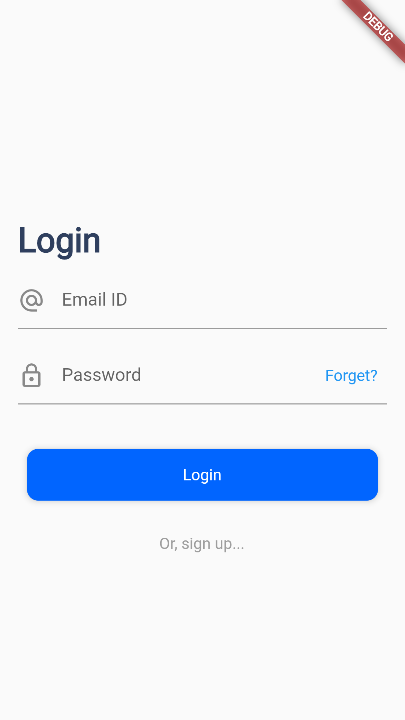
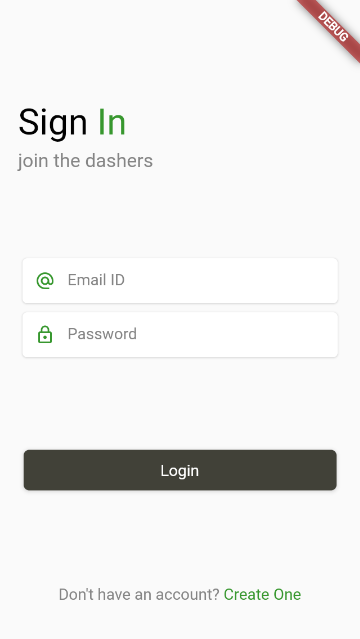
login ui update

diff --git a/dash_chat_app/lib/features/login/login_screen.dart b/dash_chat_app/lib/features/login/login_screen.dart
@@ -6,7 +6,7 @@ const kSecondaryColor = Color(0xFF37972e);
 const kGreyColor = Color(0xFF858585);
 const kBlackColor = Colors.black;
 const kWhiteColor = Colors.white;
-const contentSpacing = 16.0;
+const kContentSpacing = 16.0;
 
 
 class LoginScreen extends StatelessWidget {
@@ -24,58 +24,67 @@ class LoginScreen extends StatelessWidget {
   Widget build(BuildContext context) {
     return Scaffold(
       body: SafeArea(
-        child: SingleChildScrollView(
-          child: Padding(
-            padding: const EdgeInsets.all(bodyPadding),
-            child: Column(
-              crossAxisAlignment: CrossAxisAlignment.stretch,
-              children: [
-                /// A Picture
-                const SizedBox(height: 100, width: double.infinity,),
-                /// The Heading
-                const DoubleColorText(
-                  primaryText: 'Sign ',
-                  secondaryText: 'In',
-                  primaryColor: Colors.black,
-                  fontSize: 32,
-                ),
-                const SizedBox(height: 5.0,),
-                const Text('join the dashers', style: TextStyle(
-                  fontSize: 17.0,
-                  color: kGreyColor
-                ),),
-                const SizedBox(height: 30.0,),
-                /// The Form
-                const PrimaryInputTextField(
-                  labelText: 'Email ID',
-                  prefixIcon: Icons.alternate_email,
-                  keyboardType: TextInputType.emailAddress,
-                ),
-                const PrimaryInputTextField(
-                    labelText: 'Password',
-                    prefixIcon: Icons.lock_outline,
-                    obscureText: true,
-                    bottomSpace: contentSpacing*2,
-                ),
-                const SizedBox(height: 30.0,),
-                SizedBox(
-                  width: double.infinity,
-                  child: PrimaryActionButton(
-                    onPressed: (){},
-                    buttonText: 'Login',
+        child: LayoutBuilder(
+          builder: (context, constraint) {
+            return SingleChildScrollView(
+              child: ConstrainedBox(
+                constraints: BoxConstraints(minHeight: constraint.maxHeight),
+                child: IntrinsicHeight(
+                  child: Padding(
+                    padding: const EdgeInsets.all(kContentSpacing),
+                    child: Column(
+                      crossAxisAlignment: CrossAxisAlignment.stretch,
+                      children: <Widget>[
+                        /// A Picture
+                        const Spacer(),
+                        /// The Heading
+                        const DoubleColorText(
+                          primaryText: 'Sign ',
+                          secondaryText: 'In',
+                          primaryColor: Colors.black,
+                          fontSize: 32,
+                        ),
+                        const SizedBox(height: 5.0,),
+                        const Text('join the dashers', style: TextStyle(
+                            fontSize: 17.0,
+                            color: kGreyColor
+                        ),),
+                        const Spacer(),
+                        /// The Form
+                        const PrimaryInputTextField(
+                          labelText: 'Email ID',
+                          prefixIcon: Icons.alternate_email,
+                          keyboardType: TextInputType.emailAddress,
+                        ),
+                        const PrimaryInputTextField(
+                          labelText: 'Password',
+                          prefixIcon: Icons.lock_outline,
+                          obscureText: true,
+                          bottomSpace: kContentSpacing*2,
+                        ),
+                        const Spacer(),
+                        SizedBox(
+                          width: double.infinity,
+                          child: PrimaryActionButton(
+                            onPressed: (){},
+                            buttonText: 'Login',
+                          ),
+                        ),
+                        const Spacer(),
+                        TextButton(
+                          onPressed: (){},
+                          child: const DoubleColorText(
+                              primaryText: "Don't have an account? ",
+                              secondaryText: "Create One"),
+                        ),
+                        const SizedBox(height: 10.0,)
+                      ],
+                    ),
                   ),
                 ),
-                const SizedBox(height: contentSpacing,),
-                TextButton(
-                  onPressed: (){},
-                  child: const DoubleColorText(
-                      primaryText: "Don't have an account? ",
-                      secondaryText: "Create One"),
-                ),
-                const SizedBox(height: 10.0,)
-              ],
-            ),
-          ),
+              ),
+            );
+          },
         ),
       ),
     );
@@ -128,7 +137,7 @@ class PrimaryInputTextField extends StatelessWidget{
     required this.prefixIcon,
     this.obscureText = false,
     this.keyboardType = TextInputType.text,
-    this.bottomSpace = contentSpacing,
+    this.bottomSpace = kContentSpacing,
   }) : super(key: key);
 
   @override
